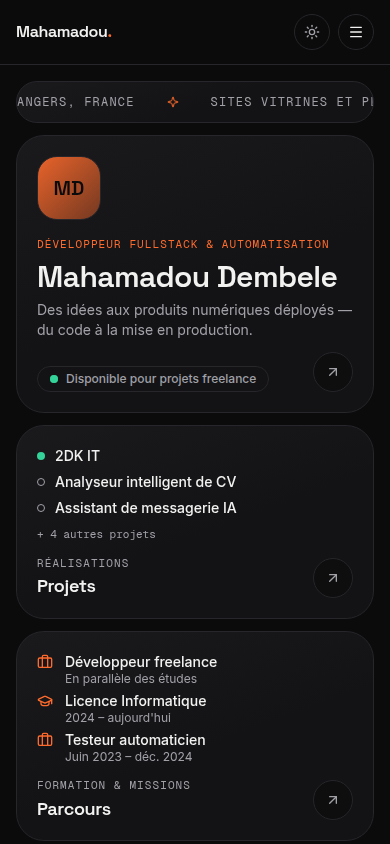
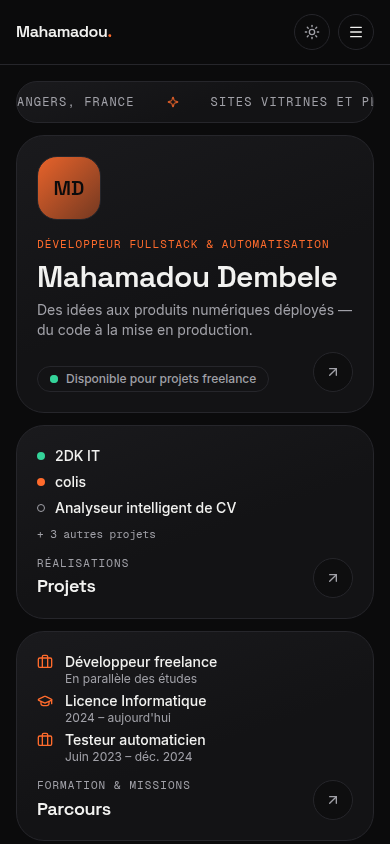
feat(projects): real screenshots, remove two projects, add repo links
- Remove the "Assistant de messagerie IA" and "Black Sphere" projects
- Real images (WebP, 1600px): 2DK IT device mockup and Westafine homepage from
  the 2dk-it repo, cropped Analyseur de CV dashboard from its repo, and the
  BotArena login screen captured from its React frontend
- Westafine: live site westafinedrinks.com, now in production
- GitHub links for 2DK IT, AI-Resume-Analyzer and BotArena; BotArena described
  from its README (React/TypeScript, FastAPI, C++ engine, Docker sandbox)
- Project bento only uses the full-width card when a 7th project exists
- Delete the old template images that belonged to someone else's projects

Interuni still uses the generated illustration (no public repo or screenshot).

Claude-Session: https://claude.ai/code/session_01VZoHRJCFU1xYYNsg8EK2Lw

Changed region(s): [[0.0923, 0.5545, 0.6154, 0.6161], [0.1231, 0.6161, 0.1538, 0.6469]]

diff --git a/src/data/projects.ts b/src/data/projects.ts
@@ -3,7 +3,7 @@ import type { Project } from "@/types/content";
 const GITHUB = "https://github.com/mamadouwhile";
 
 /*
- * Captures : déposer les fichiers dans /public/images/projects/<slug>-screenshot.png.
+ * Captures : /public/images/projects/<slug>-screenshot.webp (1600 px de large, WebP).
  * Tant qu'un fichier est absent, une illustration géométrique est affichée à la place.
  */
 export const projects: Project[] = [
@@ -15,10 +15,9 @@ export const projects: Project[] = [
       "Projet personnel abouti : une plateforme web développée en TypeScript avec Next.js et déployée en production sur Vercel. C'est mon projet le plus complet, et il est accessible publiquement.",
     status: "production",
     stack: ["TypeScript", "Next.js", "Vercel"],
-    // TODO: ajouter l'URL du dépôt GitHub de 2DK IT.
-    repos: [],
+    repos: [{ label: "2dk-it", href: `${GITHUB}/2dk-it` }],
     liveUrl: "https://2dk-it.vercel.app",
-    screenshot: "/images/projects/2dk-it-screenshot.png",
+    screenshot: "/images/projects/2dk-it-screenshot.webp",
     featured: true,
   },
   {
@@ -41,52 +40,22 @@ export const projects: Project[] = [
     description:
       "Application web qui analyse automatiquement la compatibilité d'un CV avec une offre : score ATS calculé avec BERT, extraction des mots-clés par TF-IDF, rapport rédigé via l'API Groq et export PDF. Un projet centré sur la qualité des données, les algorithmes de scoring et l'automatisation de processus.",
     status: "exploration",
-    stack: ["Python", "NLP (BERT, TF-IDF)", "Groq API", "Export PDF"],
-    // TODO: ajouter l'URL du dépôt GitHub (AI-Resume-Analyzer).
-    repos: [],
-    screenshot: "/images/projects/ai-resume-analyzer-screenshot.png",
-  },
-  {
-    slug: "assistant-messagerie-ia",
-    name: "Assistant de messagerie IA",
-    tagline:
-      "Automatiser les réponses aux e-mails clients, et passer la main à un humain quand il le faut.",
-    description:
-      "Automatisation de la gestion des e-mails clients avec n8n : classification des messages et réponses pilotées par l'IA, appuyées sur une base de connaissances, avec remontée vers un humain lorsque la demande le nécessite.",
-    // TODO: confirmer le statut.
-    status: "exploration",
-    stack: ["n8n", "IA", "Automatisation"],
-    // TODO: ajouter l'URL du dépôt GitHub.
-    repos: [],
-    screenshot: "/images/projects/assistant-messagerie-ia-screenshot.png",
+    stack: ["Python", "Streamlit", "SentenceTransformers", "scikit-learn", "Groq API"],
+    repos: [{ label: "AI-Resume-Analyzer", href: `${GITHUB}/AI-Resume-Analyzer` }],
+    screenshot: "/images/projects/ai-resume-analyzer-screenshot.webp",
   },
   {
     slug: "westafine",
     name: "Westafine",
-    tagline: "Un frontend et une API séparés pour que chaque couche évolue sans casser l'autre.",
+    tagline: "Le site d'une marque de boissons premium inspirées des saveurs africaines.",
     description:
-      "Projet TypeScript en architecture fullstack séparée : le frontend et l'API dédiée (westafine-api) vivent dans des dépôts distincts.",
-    // TODO: confirmer le statut.
-    status: "en-developpement",
+      "Site de la marque Westafine (bissap, gingembre, ananas), en ligne sur westafinedrinks.com. Projet TypeScript en architecture fullstack séparée : le frontend et l'API dédiée (westafine-api) vivent dans des dépôts distincts.",
+    status: "production",
     stack: ["TypeScript", "API REST"],
     // TODO: ajouter le dépôt du frontend Westafine.
     repos: [{ label: "westafine-api", href: `${GITHUB}/westafine-api` }],
-    screenshot: "/images/projects/westafine-screenshot.png",
-  },
-  {
-    slug: "black-sphere",
-    name: "Black Sphere",
-    tagline: "Une application et son API découplées, chacune avec une responsabilité claire.",
-    description:
-      "Projet fullstack TypeScript composé d'une application (black_sphere_app) et d'une API dédiée (black-sphere-api), avec une séparation nette des responsabilités entre les deux.",
-    // TODO: confirmer le statut.
-    status: "en-developpement",
-    stack: ["TypeScript", "API REST"],
-    repos: [
-      { label: "black_sphere_app", href: `${GITHUB}/black_sphere_app` },
-      { label: "black-sphere-api", href: `${GITHUB}/black-sphere-api` },
-    ],
-    screenshot: "/images/projects/black-sphere-screenshot.png",
+    liveUrl: "https://www.westafinedrinks.com",
+    screenshot: "/images/projects/westafine-screenshot.webp",
   },
   {
     slug: "interuni",
@@ -98,18 +67,19 @@ export const projects: Project[] = [
     stack: ["TypeScript"],
     // TODO: ajouter l'URL du dépôt GitHub d'Interuni.
     repos: [],
-    screenshot: "/images/projects/interuni-screenshot.png",
+    // TODO: fournir une capture (public/images/projects/interuni-screenshot.webp).
+    screenshot: "/images/projects/interuni-screenshot.webp",
   },
   {
     slug: "botarena",
     name: "BotArena",
-    tagline: "Un terrain d'expérimentation pour se confronter à des problèmes algorithmiques.",
-    description: "Projet Python d'exploration technique et algorithmique.",
+    tagline: "Déposer un bot, le compiler en sandbox et l'affronter en match ou en tournoi.",
+    description:
+      "Plateforme web universitaire de gestion de bots : dépôt et compilation isolée dans des conteneurs Docker, matchs, tournois round-robin avec classements, et supervision admin. Authentification JWT avec trois rôles (étudiant, relecteur, admin), frontend React/TypeScript, API FastAPI avec workers, et moteur de jeu en C++.",
     status: "exploration",
-    stack: ["Python"],
-    // TODO: ajouter l'URL du dépôt GitHub de BotArena.
-    repos: [],
-    screenshot: "/images/projects/botarena-screenshot.png",
+    stack: ["React", "TypeScript", "FastAPI", "SQLAlchemy", "C++", "Docker"],
+    repos: [{ label: "BotArena", href: `${GITHUB}/BotArena` }],
+    screenshot: "/images/projects/botarena-screenshot.webp",
   },
 ];
 

diff --git a/src/components/sections/Projects.tsx b/src/components/sections/Projects.tsx
@@ -9,8 +9,9 @@ import { cn } from "@/lib/utils";
  * [ projet phare 4×2 ][ 2 ]
  * [                  ][ 2 ]
  * [ 2 ][ 2 ][ 2 ]
- * [ carte large 6    ]
+ * [ carte large 6    ]   (si 7 projets)
  */
+const WIDE = "lg:col-span-6";
 const placement = [
   "md:col-span-2 lg:col-span-4 lg:row-span-2",
   "lg:col-span-2",
@@ -18,7 +19,7 @@ const placement = [
   "lg:col-span-2",
   "lg:col-span-2",
   "lg:col-span-2",
-  "lg:col-span-6",
+  WIDE,
 ];
 
 type ProjectsProps = {
@@ -40,8 +41,9 @@ export function Projects({ headingLevel }: ProjectsProps = {}) {
     >
       <ul className="grid gap-4 md:grid-cols-2 lg:grid-cols-6">
         {ordered.map((project, index) => {
-          const isLast = index === ordered.length - 1;
-          const variant = project.featured ? "featured" : isLast ? "wide" : "default";
+          // La carte large (pleine ligne) n'existe que s'il reste un 7ᵉ projet après la grille.
+          const isWide = placement[index] === WIDE;
+          const variant = project.featured ? "featured" : isWide ? "wide" : "default";
 
           return (
             <Reveal as="li" key={project.slug} className={cn(placement[index])}>

diff --git a/CLAUDE.md b/CLAUDE.md
@@ -78,7 +78,7 @@ demande explicite). Démo : https://portfolio-one-chi-igpe905f4o.vercel.app
   ses polices ; à régénérer si le positionnement ou le design change.
 - **Titres** : un seul `h1` par page (sur l'accueil : le nom dans `ProfileCard`). `Section` accepte `headingLevel` (`h1` sur /about,
   /projects, /contact) ; les sous-titres (About, ProjectCard) descendent d'un niveau en conséquence.
-- **Captures de projets** : `public/images/projects/<slug>-screenshot.png`, détectées au build
+- **Captures de projets** : `public/images/projects/<slug>-screenshot.webp`, détectées au build
   (`getScreenshot`, `server-only`) ; à défaut, illustration géométrique déterministe (slug).
 - **Contact** : schéma Zod partagé client/serveur (`src/lib/contact-schema.ts`) ; API Resend en
   `fetch` (sans SDK) ; 503 si non configurée ; champ piège `website` → 200 silencieux.

diff --git a/README.md b/README.md
@@ -117,7 +117,7 @@ Tout le texte affiché vient de `src/data/` :
 - `projects.ts` : projets, liens GitHub/démo, statut, stack ;
 - `skills.ts`, `experience.ts`, `services.ts` : stack, parcours, offres.
 
-Pour afficher la capture d'un projet, déposer `public/images/projects/<slug>-screenshot.png` :
+Pour afficher la capture d'un projet, déposer `public/images/projects/<slug>-screenshot.webp` :
 elle remplace automatiquement l'illustration géométrique générée.
 
 ## Licence
